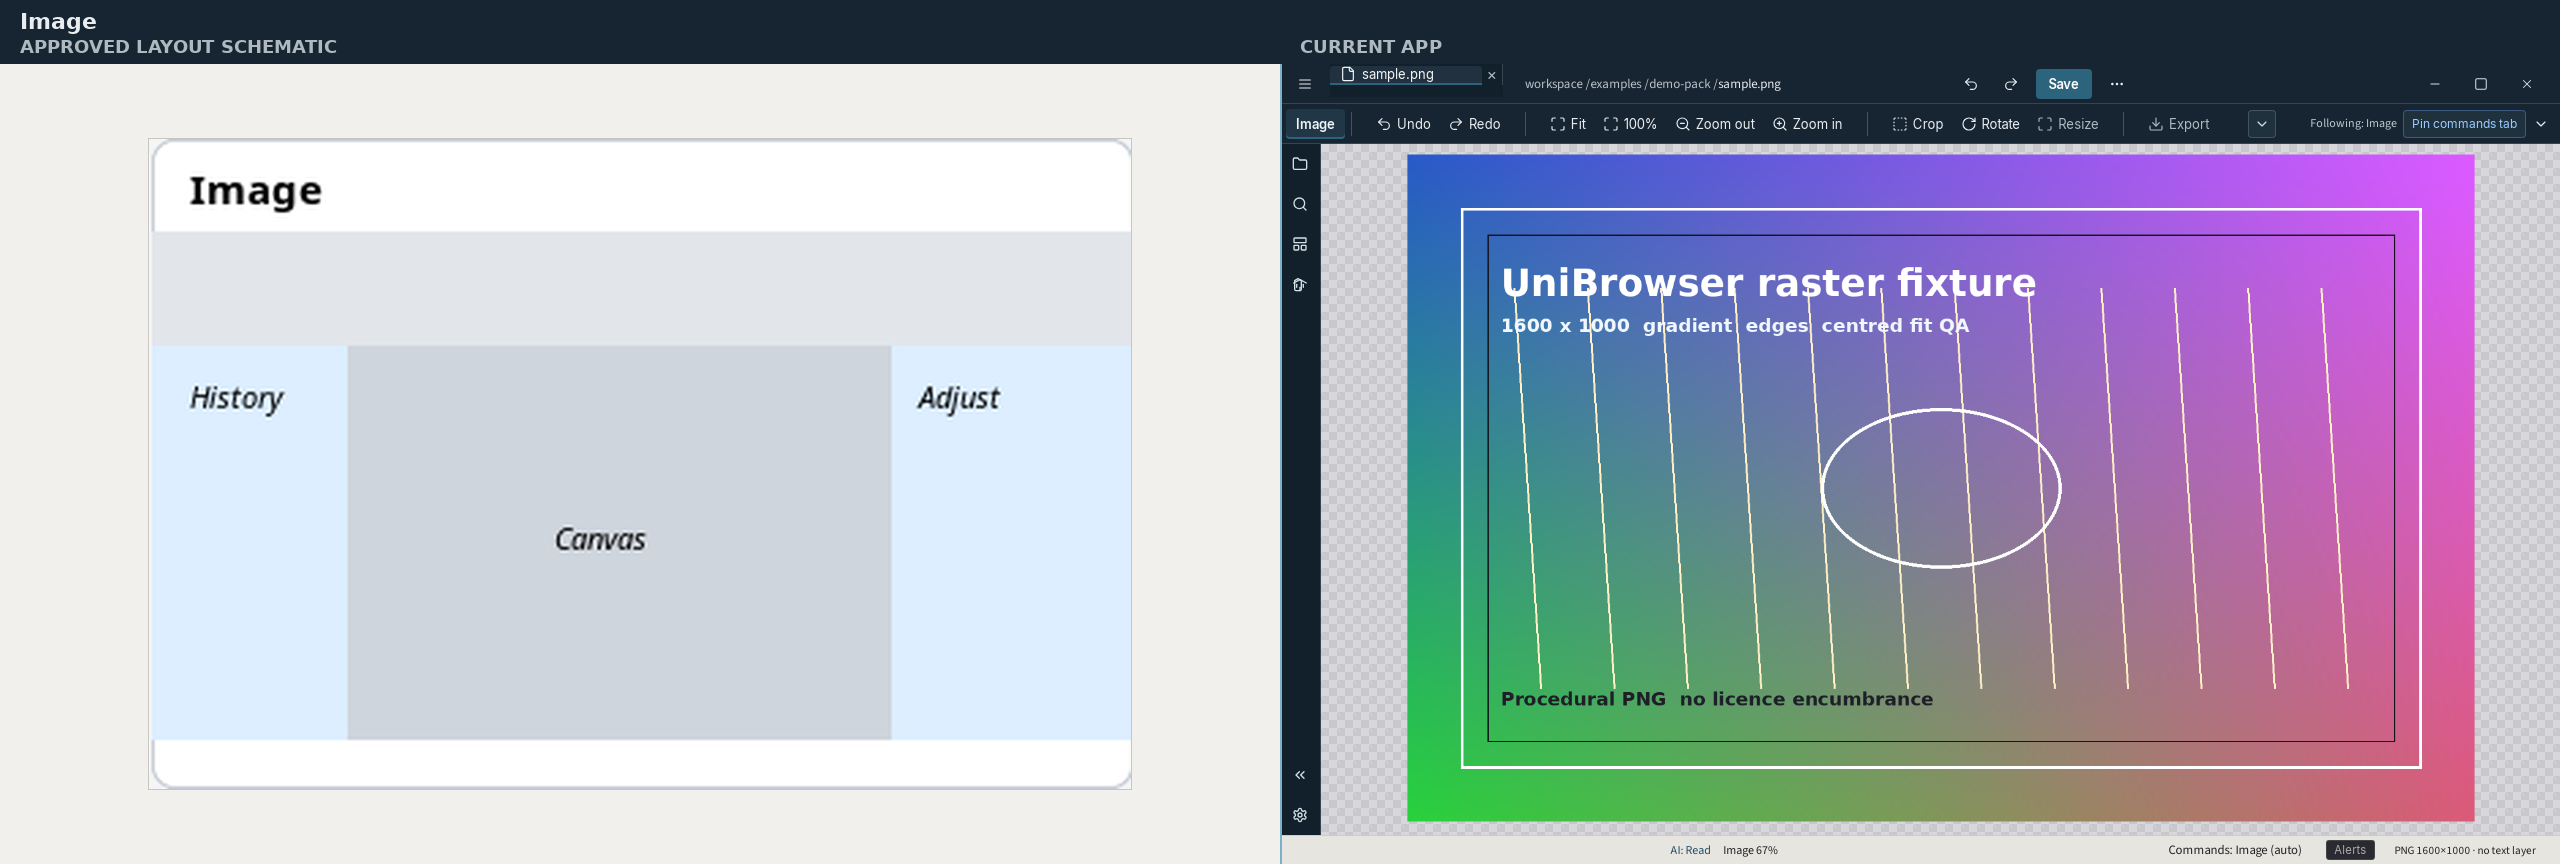
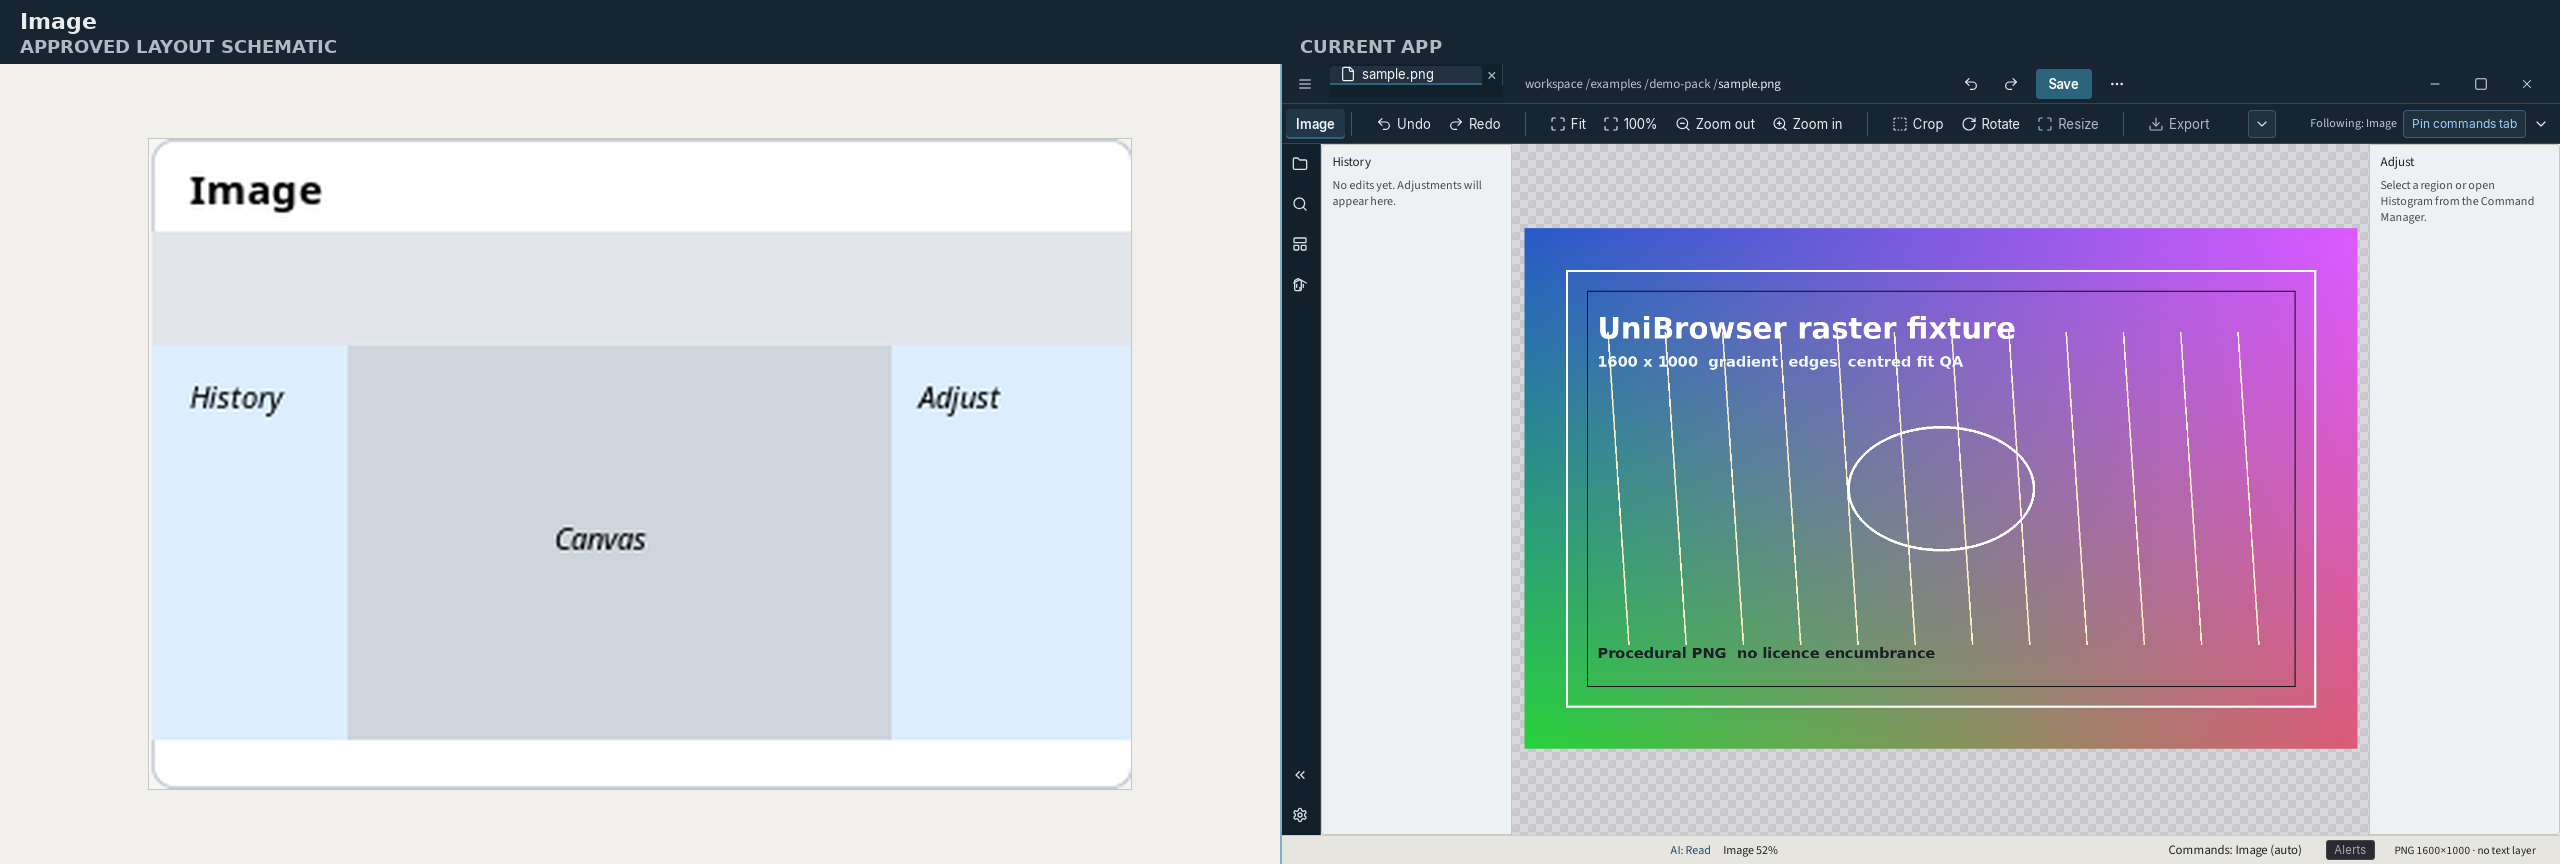
UI-22: Restore Image workbench regions
Add History and Adjust docks around the raster canvas with truthful empty
states. Resolve repo-relative doc-capture open paths and sync browser state
before paint wait so acceptance shots mount the viewer reliably.

Changed region(s): [[0.5, 0.1562, 1.0, 0.9688], [0.6875, 0.4688, 0.8125, 0.6562]]

diff --git a/crates/unibrowser-desktop/src/shellPaintReady.ts b/crates/unibrowser-desktop/src/shellPaintReady.ts
@@ -92,7 +92,7 @@ function docViewerReady(): boolean {
   }
   if (
     host.querySelector(
-      ".docx-reader, .pdf-page, .pdf-workspace, .pdf-page-wrap, .svg-workspace, .svg-preview--stage, .image-viewport, .image-viewer-layout, .viewer-note, section",
+      ".docx-reader, .pdf-page, .pdf-workspace, .pdf-page-wrap, .svg-workspace, .svg-preview--stage, .image-viewport, .image-viewer-layout, .image-dock, .viewer-note, section",
     )
   ) {
     return true;
@@ -321,7 +321,25 @@ export function launchPathsNeedEditor(launchPaths: string[]): boolean {
   );
 }
 
-function launchPathsNeedDocumentViewer(launchPaths: string[]): boolean {
+function launchPathBasenames(launchPaths: string[]): string[] {
+  return launchPaths
+    .map((p) => p.split(/[/\\]/).pop()?.toLowerCase() ?? "")
+    .filter((name) => name.length > 0);
+}
+
+async function syncBrowserStateForCapture(): Promise<void> {
+  const apply = (
+    window as unknown as { __selfTestApplyState?: (data: unknown) => Promise<void> }
+  ).__selfTestApplyState;
+  if (!apply) {
+    return;
+  }
+  const { invoke } = await import("@tauri-apps/api/core");
+  const data = await invoke("get_browser_state");
+  await apply(data);
+}
+
+export function launchPathsNeedDocumentViewer(launchPaths: string[]): boolean {
   const joined = launchPaths.join("|").toLowerCase();
   return (
     joined.includes(".pdf") ||
@@ -334,21 +352,11 @@ function launchPathsNeedDocumentViewer(launchPaths: string[]): boolean {
   );
 }
 
-let documentTabCaptureNudged = false;
-
-export function resetDocumentTabCaptureNudge(): void {
-  documentTabCaptureNudged = false;
-}
-
 /** Select the tab that matches argv `--open` paths so the viewer host is shown. */
 export async function ensureDocumentTabActiveForCapture(launchPaths: string[]): Promise<void> {
   if (!launchPathsNeedDocumentViewer(launchPaths)) {
     return;
   }
-  if (documentTabCaptureNudged) {
-    return;
-  }
-  documentTabCaptureNudged = true;
   const host = document.getElementById("document-viewer-host");
   if (host && !host.classList.contains("hidden")) {
     return;
@@ -357,12 +365,17 @@ export async function ensureDocumentTabActiveForCapture(launchPaths: string[]): 
   const ext =
     [".pdf", ".svg", ".png", ".jpg", ".jpeg", ".webp", ".docx"].find((e) => joined.includes(e)) ??
     "";
+  const basenames = launchPathBasenames(launchPaths);
   const tabs = document.querySelectorAll<HTMLElement>(".title-tabs .tab");
   for (const tab of tabs) {
     const label = (tab.textContent ?? "").toLowerCase();
-    if (ext && label.includes(ext.replace(".", ""))) {
+    const matches =
+      basenames.some((name) => label === name || label.endsWith(name)) ||
+      (ext ? label.includes(ext.replace(".", "")) : false);
+    if (matches) {
       tab.click();
-      await sleep(250);
+      await sleep(300);
+      await syncBrowserStateForCapture();
       return;
     }
   }
@@ -370,14 +383,18 @@ export async function ensureDocumentTabActiveForCapture(launchPaths: string[]): 
   const state = await invoke<{ active_index: number; tabs: { label: string }[] }>("get_browser_state");
   const idx = state.tabs.findIndex((t) => {
     const label = t.label.toLowerCase();
-    return ext ? label.includes(ext.replace(".", "")) : false;
+    return (
+      basenames.some((name) => label === name || label.endsWith(name)) ||
+      (ext ? label.includes(ext.replace(".", "")) : false)
+    );
   });
-  if (idx >= 0) {
-    await invoke("select_tab", { index: idx }).catch(() => undefined);
-    await sleep(250);
-  } else if (state.tabs.length > 0) {
-    await invoke("select_tab", { index: state.tabs.length - 1 }).catch(() => undefined);
-    await sleep(250);
+  const pick = idx >= 0 ? idx : state.tabs.length > 0 ? state.tabs.length - 1 : -1;
+  if (pick >= 0 && pick !== state.active_index) {
+    await invoke("select_tab", { index: pick }).catch(() => undefined);
+    await sleep(300);
+    await syncBrowserStateForCapture();
+  } else if (pick >= 0) {
+    await syncBrowserStateForCapture();
   }
 }
 
@@ -396,6 +413,7 @@ export async function ensureTextTabActiveForCapture(launchPaths: string[]): Prom
   const pick = textIndex >= 0 ? textIndex : 0;
   await invoke("select_tab", { index: pick }).catch(() => undefined);
   await sleep(300);
+  await syncBrowserStateForCapture();
   const hostAfter = document.getElementById("text-editor-host");
   if (hostAfter && !hostAfter.classList.contains("hidden")) {
     return;
@@ -426,12 +444,14 @@ export async function waitForShellPaintReady(
   launchPaths: string[],
   timeoutMs = 18_000,
 ): Promise<boolean> {
-  resetDocumentTabCaptureNudge();
   const checks = checksForDemo(demoRaw, launchPaths);
   const deadline = Date.now() + timeoutMs;
+  const preferDocumentViewer = launchPathsNeedDocumentViewer(launchPaths);
   while (Date.now() < deadline) {
     await ensureDocumentTabActiveForCapture(launchPaths);
-    await ensureTextTabActiveForCapture(launchPaths);
+    if (!preferDocumentViewer) {
+      await ensureTextTabActiveForCapture(launchPaths);
+    }
     await nudgeEditorLayout();
     if (checks.every((fn) => fn())) {
       await nudgeEditorLayout();

diff --git a/crates/unibrowser-desktop/src/main.ts b/crates/unibrowser-desktop/src/main.ts
@@ -15,6 +15,17 @@ import { initCommandPalette } from "./ui/commandPalette";
 import { initDockPanel } from "./ui/dockPanel";
 
 /** WebDriver waits on this; set once shell chrome from index.html is in the DOM. */
+async function resolveCaptureOpenPath(path: string): Promise<string> {
+  if (path.includes("://") || path.startsWith("/") || /^[A-Za-z]:[\\/]/.test(path)) {
+    return path;
+  }
+  try {
+    return await invoke<string>("resolve_capture_path", { path });
+  } catch {
+    return path;
+  }
+}
+
 function expectedCaptureContextLabel(launchPaths: string[]): string | null {
   const joined = launchPaths.join("|").toLowerCase();
   if (joined.includes(".pdf")) {
@@ -182,6 +193,7 @@ import {
 import { validateShellDensityContrastForCapture } from "./ui/shellContrast";
 import {
   editorReadyForCapture,
+  launchPathsNeedDocumentViewer,
   launchPathsNeedEditor,
   waitForShellPaintReady,
 } from "./shellPaintReady";
@@ -2771,7 +2783,11 @@ void initToolbarOnlyShell(refreshCommandManager).then((toolbarOnly) => {
       }
       for (const p of launchPaths) {
         try {
-          const opened = await invoke<TabContentDto>("open_path", { path: p, line: null });
+          const resolved = await resolveCaptureOpenPath(p);
+          const opened = await invoke<TabContentDto>("open_path", {
+            path: resolved,
+            line: null,
+          });
           if (opened) {
             await applyState(opened);
           }
@@ -2826,6 +2842,25 @@ void initToolbarOnlyShell(refreshCommandManager).then((toolbarOnly) => {
           }
         }
         try {
+          if (launchPathsNeedDocumentViewer(launchPaths)) {
+            const docPath =
+              launchPaths.find((p) => launchPathsNeedDocumentViewer([p])) ??
+              launchPaths[launchPaths.length - 1];
+            try {
+              const resolved = await resolveCaptureOpenPath(docPath);
+              const opened = await invoke<TabContentDto>("open_path", {
+                path: resolved,
+                line: null,
+              });
+              if (opened) {
+                await applyState(opened);
+              }
+              await refreshState();
+              await new Promise((resolve) => window.setTimeout(resolve, 300));
+            } catch {
+              /* open_path errors surface on next interaction */
+            }
+          }
           const painted = await waitForShellPaintReady(demoAgain, launchPaths, 90_000);
           if (!painted) {
             const timeoutDiag = formatDiagnosticsForLog(collectDocCaptureDiagnostics());

diff --git a/crates/unibrowser-desktop/src/imageRasterViewer.ts b/crates/unibrowser-desktop/src/imageRasterViewer.ts
@@ -80,7 +80,16 @@ export async function mountRasterImageViewer(
   setStatusHint(t("image.toolbarNote"));
 
   const layout = document.createElement("div");
-  layout.className = "image-viewer-layout";
+  layout.className = "image-viewer-layout image-workbench";
+  const historyDock = document.createElement("aside");
+  historyDock.className = "image-dock image-dock--history";
+  const historyHead = document.createElement("header");
+  historyHead.className = "image-dock-header";
+  historyHead.textContent = t("image.historyDock");
+  const historyEmpty = document.createElement("p");
+  historyEmpty.className = "image-dock-empty";
+  historyEmpty.textContent = t("image.historyEmpty");
+  historyDock.append(historyHead, historyEmpty);
   const mainCol = document.createElement("div");
   mainCol.className = "image-viewer-main";
 
@@ -107,7 +116,16 @@ export async function mountRasterImageViewer(
   viewport.appendChild(stage);
   mainCol.appendChild(viewport);
 
-  const histAside = document.createElement("aside");
+  const adjustDock = document.createElement("aside");
+  adjustDock.className = "image-dock image-dock--adjust";
+  const adjustHead = document.createElement("header");
+  adjustHead.className = "image-dock-header";
+  adjustHead.textContent = t("image.adjustDock");
+  const adjustEmpty = document.createElement("p");
+  adjustEmpty.className = "image-dock-empty image-dock-empty--default";
+  adjustEmpty.textContent = t("image.adjustEmpty");
+  adjustDock.append(adjustHead, adjustEmpty);
+  const histAside = document.createElement("div");
   histAside.className = "image-histogram-panel hidden";
   const histTitle = document.createElement("h3");
   histTitle.textContent = t("image.histogram");
@@ -131,8 +149,8 @@ export async function mountRasterImageViewer(
     row.appendChild(c);
     histAside.appendChild(row);
   }
-  layout.appendChild(mainCol);
-  layout.appendChild(histAside);
+  adjustDock.appendChild(histAside);
+  layout.append(historyDock, mainCol, adjustDock);
   root.appendChild(layout);
 
   const sampleCanvas = document.createElement("canvas");

diff --git a/crates/unibrowser-desktop/src-tauri/src/launch_args.rs b/crates/unibrowser-desktop/src-tauri/src/launch_args.rs
@@ -1,4 +1,4 @@
-use std::path::PathBuf;
+use std::path::{Path, PathBuf};
 use std::sync::{Mutex, OnceLock};
 
 use serde::Deserialize;
@@ -140,6 +140,26 @@ pub fn doc_capture_output_path() -> Option<PathBuf> {
         .lock()
         .ok()
         .and_then(|d| d.as_ref().cloned())
+}
+
+pub fn resolve_capture_path_str(path: &str) -> Result<String, String> {
+    if path.contains("://") {
+        return Ok(path.to_string());
+    }
+    let raw = Path::new(path);
+    if raw.is_absolute() {
+        return Ok(path.to_string());
+    }
+    let root = std::env::var("UNIBROWSER_REPO_ROOT")
+        .map(|r| PathBuf::from(r.trim_end_matches('/')))
+        .or_else(|_| std::env::current_dir().map_err(|e| e.to_string()))?;
+    Ok(root.join(raw).to_string_lossy().into_owned())
+}
+
+/// Resolve repo-relative `--open` paths for doc-capture (UNIBROWSER_REPO_ROOT or cwd).
+#[tauri::command]
+pub fn resolve_capture_path(path: String) -> Result<String, String> {
+    resolve_capture_path_str(&path)
 }
 
 #[tauri::command]

diff --git a/crates/unibrowser-desktop/src-tauri/src/doc_capture.rs b/crates/unibrowser-desktop/src-tauri/src/doc_capture.rs
@@ -135,9 +135,10 @@ pub fn run_capture_on_main(app: &AppHandle) -> Result<PathBuf, String> {
     let state = app.state::<crate::state::AppState>();
 
     for open in launch_args::launch_open_paths_snapshot() {
+        let resolved = launch_args::resolve_capture_path_str(&open).unwrap_or(open);
         let _ = crate::commands::open_path(
             window.clone(),
-            open,
+            resolved,
             None,
             app.clone(),
             state.clone(),

diff --git a/crates/unibrowser-desktop/src-tauri/src/lib.rs b/crates/unibrowser-desktop/src-tauri/src/lib.rs
@@ -472,6 +472,7 @@ pub fn run() {
             commands::search_open_vsx_catalog,
             rhai_host::describe_rhai_script,
             launch_args::take_launch_open_paths,
+            launch_args::resolve_capture_path,
             launch_args::get_demo_state,
             launch_args::take_doc_capture_path,
             launch_args::write_doc_capture_cm_json,

diff --git a/docs/design/ui-implementation-plan.md b/docs/design/ui-implementation-plan.md
@@ -745,6 +745,9 @@ Fail rule:
 
 ### UI-22: Restore the Image workbench regions
 
+Status: done 2026-10-07. History and Adjust docks flank the fitted raster canvas; empty
+states are truthful; doc-capture resolves repo-relative `--open` paths.
+
 Work:
 
 - Provide stable History and Adjust docks around the raster canvas.
